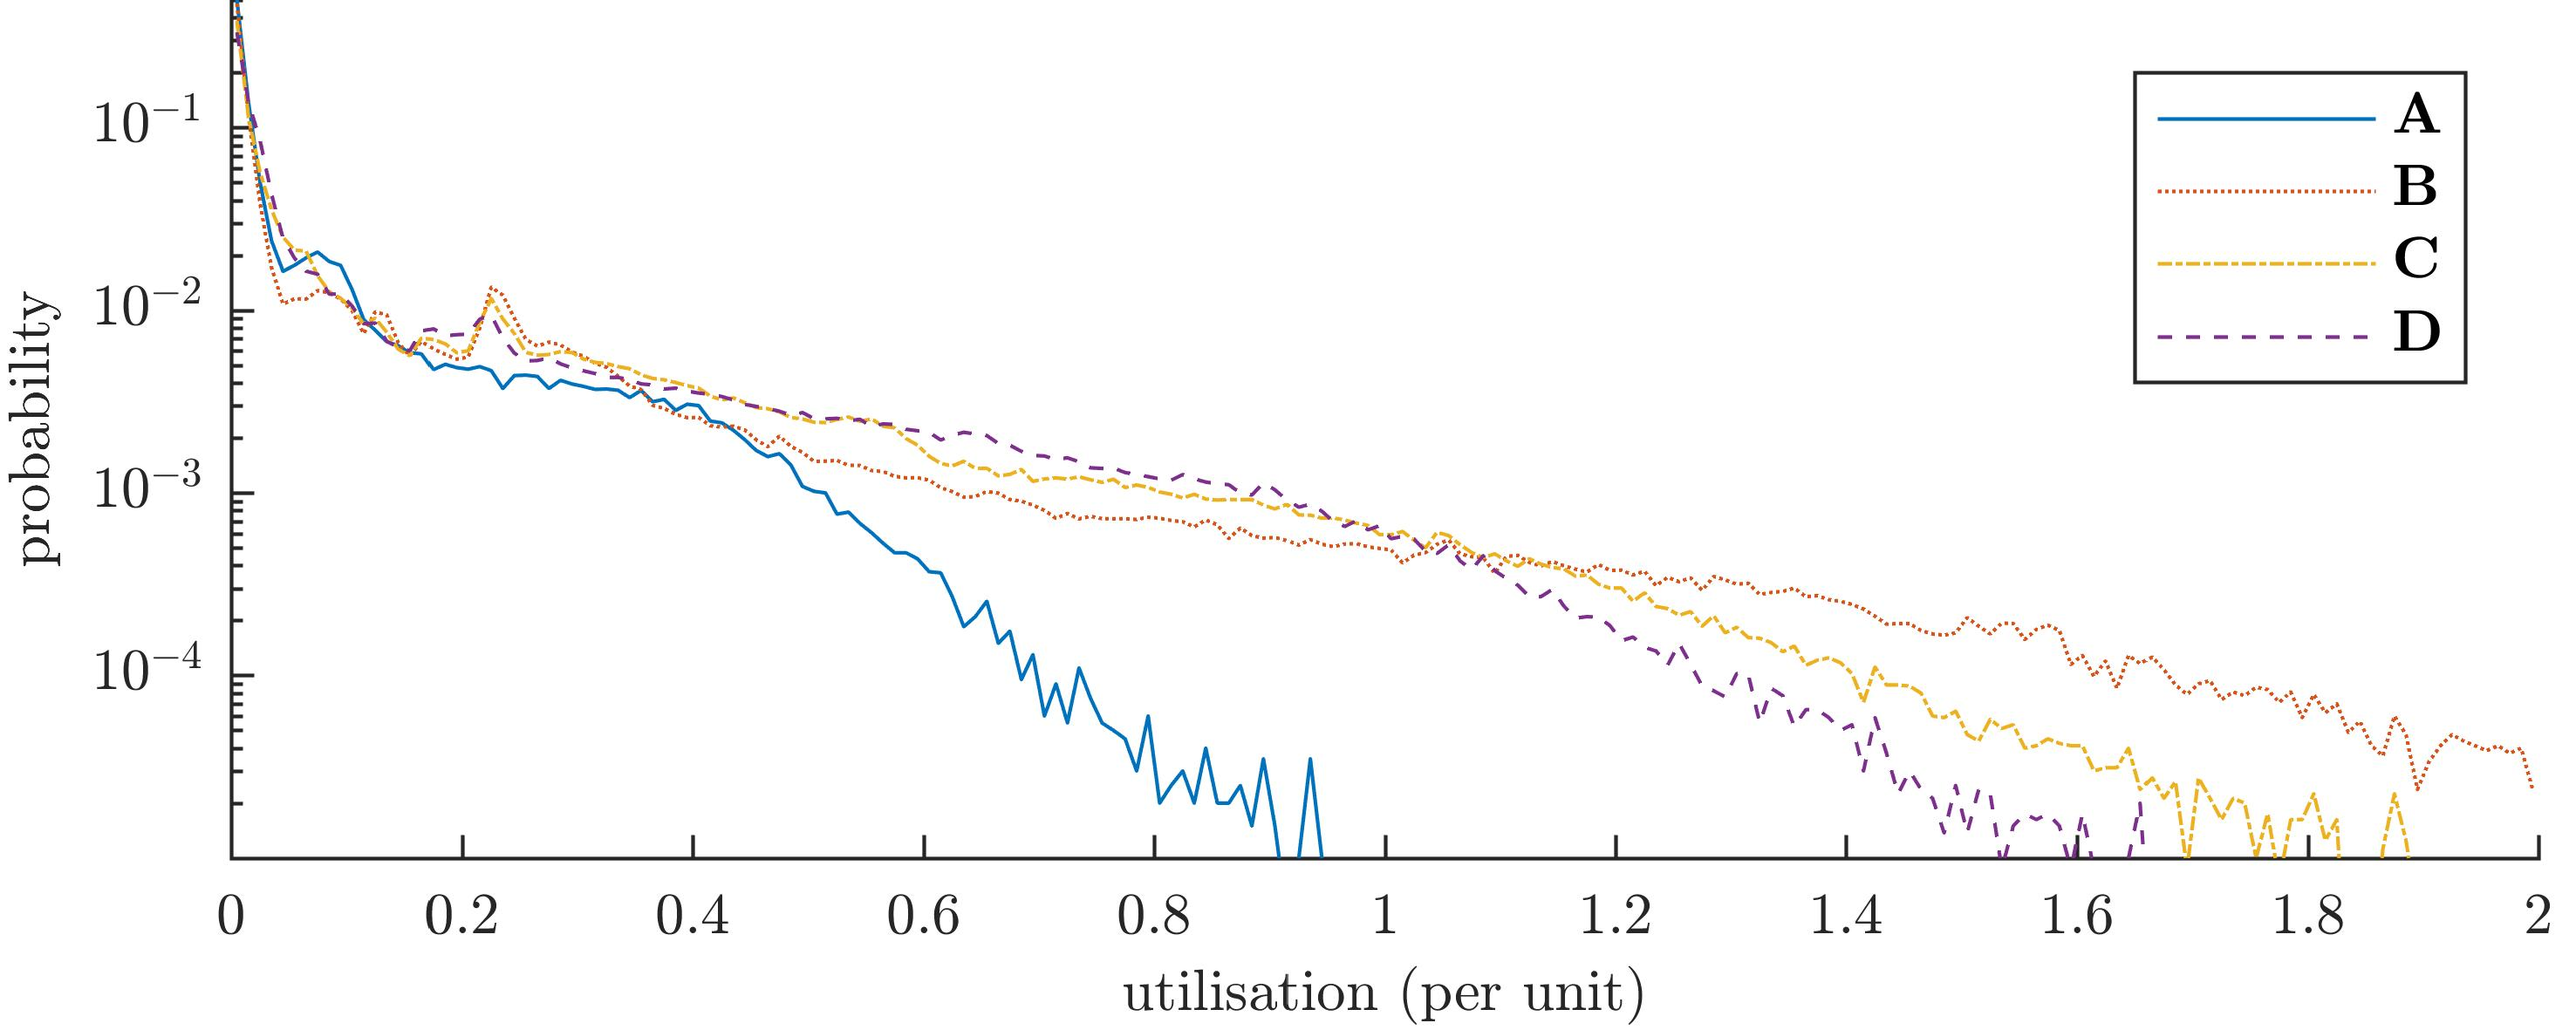
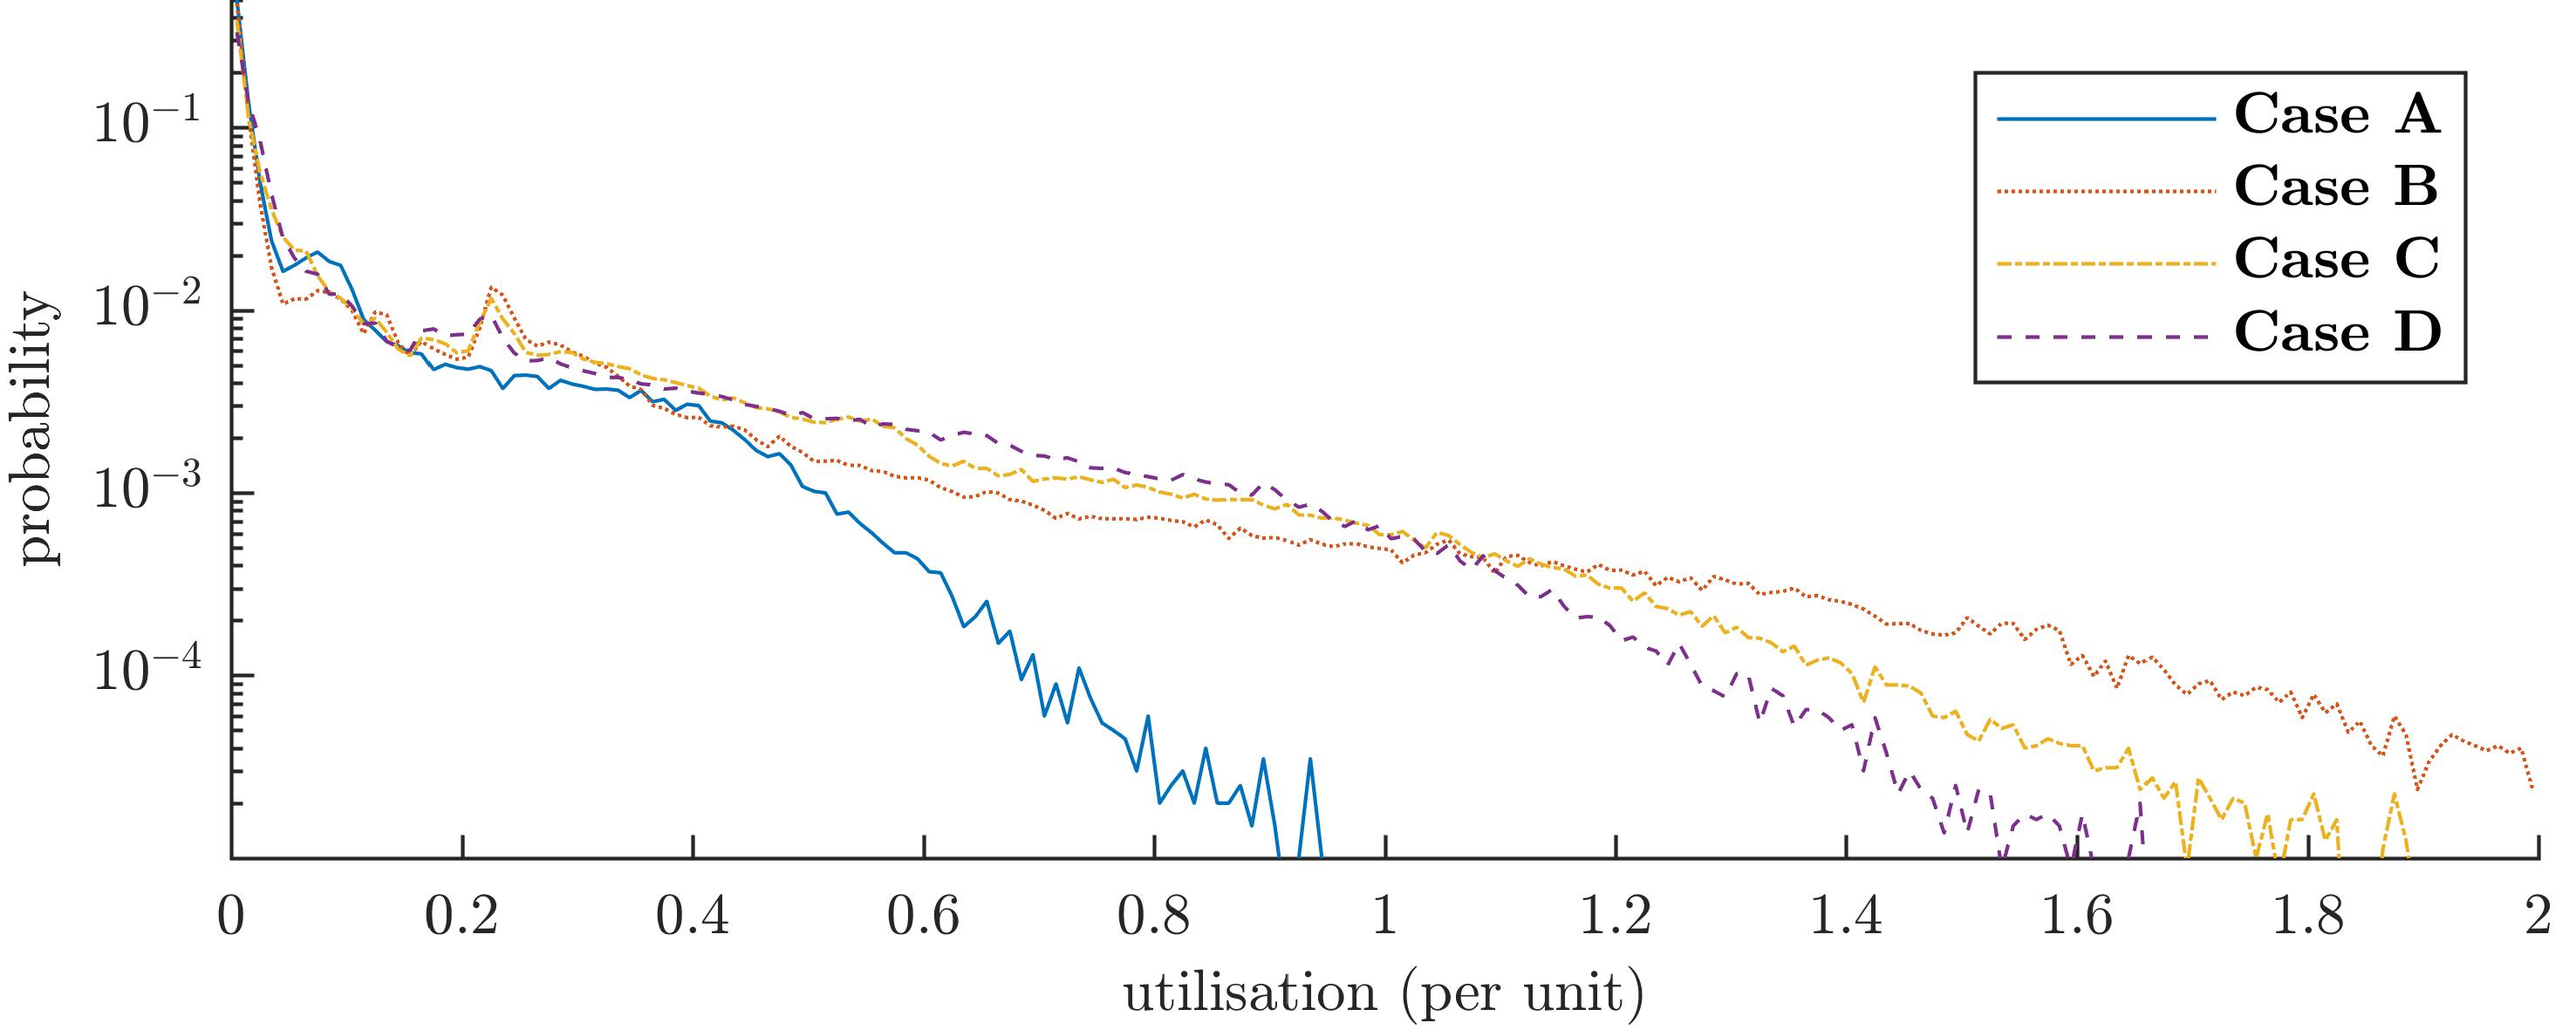
Finished results section

diff --git a/_chapter4/sec/results.tex b/_chapter4/sec/results.tex
@@ -59,7 +59,13 @@ As they are located closer to the substation, they do not measure a sufficient b
 This behaviour causes a number of line overloads at the very beginning of the simulated days.
 The AIMD+ algorithm on the other hand, with its adjusted thresholds, is more responsive to non-optimal network operation and, therefore, increases the charging rate gradually.
 
-This gradual adjustment is based on the fact that the bus voltages in the AIMD+ algorithm are closer to their nominal voltages (i.e., bus voltages found by simulating the feeder with its equally-distributed nominal load) than they are in the conventional AIMD case. A greater voltage disparity, which is the case in AIMD, causes a prolonged additive adjustment to the battery's power. This prolonged adjustment is particularly apparent for batteries situated at the bottom of the feeder, as their voltage measurements deviate the furthest from the substation voltage level. AIMD+ on the other hand prevents this behaviour by setting the voltage threshold based on the network's nominal voltage drop, which is dependent on the distance between the BESS and its feeding substation. As a result, the set-point voltage thresholds at the bottom of the feeder are lower than those closer to the substation. Hence, the additive power adjustment is equalised along the entire feeder. Therefore, by applying these individualised control thresholds, the sensitivity of the algorithm is corrected, whilst successfully mitigating the severity of line overloads.
+This gradual adjustment is based on the fact that the bus voltages in the AIMD+ algorithm are closer to their nominal voltages (i.e., bus voltages found by simulating the feeder with its equally-distributed nominal load) than they are in the conventional AIMD case.
+A greater voltage disparity, which is the case in AIMD, causes a prolonged additive adjustment to the battery's power.
+This prolonged adjustment is particularly apparent for batteries situated at the bottom of the feeder, as their voltage measurements deviate the furthest from the substation voltage level.
+AIMD+ on the other hand prevents this behaviour by setting the voltage threshold based on the network's nominal voltage drop, which is dependent on the distance between the BESS and its feeding substation.
+As a result, the set-point voltage thresholds at the bottom of the feeder are lower than those closer to the substation.
+Hence, the additive power adjustment is equalised along the entire feeder.
+Therefore, by applying these individualised control thresholds, the sensitivity of the algorithm is corrected, whilst successfully mitigating the severity of line overloads.
 
 \input{_chapter4/fig/utilisation-aimd-compare}
 
@@ -77,61 +83,31 @@ This immunity and well-controlled power flow caused little to no additional stra
 
 \subsection{Battery Utilisation Analysis}
 
-In this part of the analysis, the batteries' fairness of usage was evaluated. The battery power profiles were recorded; excerpts are plotted in Figure~\ref{fig-battery-utilisation-power} and are arranged by distance from the substation.
+\input{_chapter4/fig/storage-aimd}
 
+In this part of the analysis, the batteries' fairness of usage was evaluated. The battery power profiles were recorded; excerpts are plotted in Figure~\ref{ch4:fig:storage-aimd} and are arranged by distance from the substation.
+In this figure, it can be seen that only half of the deployed storage devices were active in \ref{ch4:case-c} (AIMD control), whereas all devices are utilised in \ref{ch4:case-d} (AIMD+ control).
+From the recorded battery SOC profiles, the net cycling of each battery was computed and divided by the duration of the simulation, giving an average daily cycling value.
+This value is plotted for each load in Figure~\ref{ch4:subfig:storage-aimd-cycling-compare}. The corresponding statistical analysis is presented in Figure~\ref{ch4:subfig:storage-aimd-cycling-stats}.
 
-\begin{figure}\centering
- \subfloat[]{%
- \includegraphics[width=0.5\textwidth]{foo}%
- \label{subfig-battery-utilisation-power-f}%
- }
- \subfloat[]{%
- \includegraphics[width=0.5\textwidth]{foo}%
- \label{subfig-battery-utilisation-power-r}%
- \caption{Battery power profiles of each load's battery storage device over four days for (a) \ref{ch4:case-c}, 60\% EV and 100\% AIMD (kW); (b) \ref{ch4:case-d}, 60\% EV and 100\% AIMD+ (kW).}
- \label{fig-battery-utilisation-power}
-\end{figure}
+\input{_chapter4/fig/storage-aimd-cycling}
 
-In this figure, it can be seen that only half of the deployed storage devices were active in \ref{ch4:case-c} (AIMD control), whereas all devices are utilised in \ref{ch4:case-d} (AIMD+ control). From the recorded battery SOC profiles, the net cycling of each battery was computed and divided by the duration of the simulation, giving an average daily cycling value. This value is plotted for each load in Figure~\ref{fig-battery-cycling}a. The corresponding statistical analysis is presented in Figure~\ref{fig-battery-cycling}b.
+These two plots show the under-usage of AIMD controlled batteries, as well as the variance in battery usage under AIMD and AIMD+ control.
+In fact, under AIMD control, 20 out of 55 batteries experienced a cycling of less than 10\% per day, whereas the remaining devices were utilised fully.
+This discrepancy causes the $\zeta_\textbf{C}^{***}$ value to be noticeably larger than $\zeta_\textbf{D}^{***}$.
+A more detailed comparison is given when plotting the Peak-to-Average Ratios (PAR) of the batteries' daily cycling over the full range of EV and storage uptake scenarios; these plots are shown in Figure~\ref{ch4:fig:storage-aimd-par}.
+Section~\ref{ch4:subsec:performance-metric-definition} gave the detail on all performance metrics, including $\zeta^{***}$, i.e. PAR, which is defined in Equation~\ref{ch4:equ:par-metric-c} and Equation~\ref{ch4:equ:par-metric-d}.
 
+\input{_chapter4/fig/storage-aimd-par}
 
-\begin{figure}[!h]\centering
- \subfloat[]{%
- \includegraphics[height=0.25\textwidth]{foo}%
- \label{subfig-battery-cycling-excerpt}%
- }
- \hspace{5mm}
- \subfloat[]{%
- \includegraphics[height=0.25\textwidth]{foo}%
- \label{subfig-battery-cycling-summary}%
- \caption{Each load's battery cycling compared for (\textbf{a}) 60\% EV and 100\% AIMD and AIMD+ uptake  and (\textbf{b}) in a statistical context. Here, $\zeta_\textbf{C}^{***}=3.89$ and $\zeta_\textbf{D}^{***}=2.54$. ({a}) Battery cycling for each load; ({b}) statistic. }
- \label{fig-battery-cycling}
-\end{figure}
+The figure shows that for any EV uptake scenario, AIMD-controlled energy storage units were cycled less equally than the AIMD+ controlled devices.
+Results also show that with a low EV uptake, both the AIMD and AIMD+ algorithm performed worse; yet improved as EV uptake increased.
+Averaging the PARs for all batteries' SOC profiles over all EV uptake percentages yields a clear performance difference between AIMD and AIMD+.
+These resulting PARs, i.e., the $\zeta_\textbf{C}^{***}$ and $\zeta_\textbf{D}^{***}$ values for their corresponding storage uptake percentages, are presented in Figure~\ref{ch4:fig:storage-aimd-compare-par}.
 
-These two plots show the under-usage of AIMD controlled batteries, as well as the variance in battery usage under AIMD and AIMD+ control. In fact, under AIMD control, 20 out of 55 batteries experienced a cycling of less than 10\% per day, whereas the remaining devices were utilised fully. This discrepancy causes the $\zeta_\textbf{C}^{***}$ value to be noticeably larger than $\zeta_\textbf{D}^{***}$. A more detailed comparison is given when plotting the Peak-to-Average Ratios (PAR) of the batteries' daily cycling over the full range of EV and storage uptake scenarios; these plots are shown in Figure~\ref{fig-storage-par-large}. Section~\ref{subsubsec-zeta-3} gives the detail on the PAR, $\zeta^{***}$.
+\input{_chapter4/fig/storage-aimd-compare-par}
 
-
-\begin{figure}\centering
- \subfloat[]{%
- \includegraphics[width=0.5\textwidth]{foo}%
- \label{subfig-sotrage-AIMD1-uptake-cycling-par}%
- }
- \subfloat[]{%
- \includegraphics[width=0.5\textwidth]{foo}%
- \label{subfig-sotrage-AIMD2-uptake-cycling-par}%
- }
- \caption{Peak-to-Average Ratios (PAR) of the battery cycling profiles of each load's battery storage device over four days for (\textbf{a}) AIMD  and (\textbf{b}) AIMD+. ({a}) Cycling PAR for AIMD; ({b}) cycling PAR for AIMD+.}
- \label{fig-storage-par-large}
-\end{figure}
-
-The figure shows that for any EV uptake scenario, AIMD-controlled energy storage units were cycled less equally than the AIMD+ controlled devices. Results also show that with a low EV uptake, both the AIMD and AIMD+ algorithm performed worse; yet improved as EV uptake increased.
-
-Averaging the PARs for all batteries' SOC profiles over all EV uptake percentages yields a clear performance difference between AIMD and AIMD+. These resulting PARs, i.e., the $\zeta_\textbf{C}^{***}$ and $\zeta_\textbf{D}^{***}$ values for their corresponding storage uptake percentages, are presented in Figure~\ref{fig-storage-par}.
-
-\begin{figure}\centering
- \includegraphics{foo}
- \caption{The performance index $\zeta_\textbf{C}^{***}$ for AIMD storage and $\zeta_\textbf{D}^{***}$ for AIMD+ storage control against storage uptake.}
- \label{fig-storage-par}
-\end{figure}
-
-Although the AIMD controlled batteries were, on average, cycled less than the batteries controlled by the proposed AIMD+ algorithm, looking at the average produces a distorted understanding of the performance. In fact, as more than half of the assigned AIMD BESS devices never partook in the network control, a lower average cycling was expected to begin with. The variation in cycling across all batteries, or the cycling PAR, reveals the difference between usage and effective usage. A lower ratio indicates a better usage of the deployed batteries.
+Although the AIMD controlled batteries were, on average, cycled less than the batteries controlled by the proposed AIMD+ algorithm, looking at the average produces a distorted understanding of the performance.
+In fact, as more than half of the assigned AIMD BESS devices never partook in the network control, a lower average cycling was expected to begin with.
+The variation in cycling across all batteries, or the cycling PAR, reveals the difference between usage and effective usage.
+A lower ratio indicates a better usage of the deployed batteries.

diff --git a/_chapter4/fig/storage-aimd-cycling.tex b/_chapter4/fig/storage-aimd-cycling.tex
@@ -1,0 +1,12 @@
+\begin{figure}\centering
+	\subfloat[]{
+		\includegraphics[height=0.3\textwidth]{_chapter4/fig/storage-aimd-compare}
+		\label{ch4:subfig:storage-aimd-cycling-compare}
+	}
+	\subfloat[]{
+		\includegraphics[height=0.3\textwidth]{_chapter4/fig/storage-aimd-compare-stats}
+		\label{ch4:subfig:storage-aimd-cycling-stats}
+	}
+	\caption{Each load's battery cycling compared for (a) each BESS and (b) the two cases, where $\zeta_\textbf{C}^{***}=3.89$ and $\zeta_\textbf{D}^{***}=2.54$.}
+	\label{ch4:fig:storage-aimd-cycling}
+\end{figure}

diff --git a/_chapter4/fig/storage-aimd-par.tex b/_chapter4/fig/storage-aimd-par.tex
@@ -1,0 +1,12 @@
+\begin{figure}\centering
+	\subfloat[]{
+		\includegraphics[width=0.5\textwidth]{_chapter4/fig/storage-aimd-par}
+		\label{ch4:subfig:storage-aimd-par}
+	}
+	\subfloat[]{
+		\includegraphics[width=0.5\textwidth]{_chapter4/fig/storage-aimd-plus-par}
+		\label{ch4:subfig:storage-aimd-plus-par}
+	}
+	\caption{Peak-to-Average Ratios (PAR) of the battery cycling profiles of each load's battery storage device over four days for (a) \ref{ch4:case-c}  and  (a) \ref{ch4:case-d}.}
+	\label{ch4:fig:storage-aimd-par}
+\end{figure}

diff --git a/_chapter4/fig/storage-aimd.tex b/_chapter4/fig/storage-aimd.tex
@@ -1,0 +1,12 @@
+\begin{figure}\centering
+	\subfloat[]{
+		\includegraphics[width=0.5\textwidth]{_chapter4/fig/storage-aimd}
+		\label{ch4:subfig:storage-aimd}
+	}
+	\subfloat[]{
+		\includegraphics[width=0.5\textwidth]{_chapter4/fig/storage-aimd-plus}
+		\label{ch4:subfig:storage-aimd-plus}
+	}
+	\caption{Battery power profiles of each load's battery storage device over four days for (a) \ref{ch4:case-c} and (b) \ref{ch4:case-d}.}
+	\label{ch4:fig:storage-aimd}
+\end{figure}

diff --git a/_chapter4/fig/storage-aimd-compare-par.tex b/_chapter4/fig/storage-aimd-compare-par.tex
@@ -1,0 +1,5 @@
+\begin{figure}\centering
+	\includegraphics{_chapter4/fig/storage-aimd-compare-par}
+	\caption{The performance index $\zeta_\textbf{C}^{***}$ for AIMD storage and $\zeta_\textbf{D}^{***}$ for AIMD+ storage control against storage uptake.}
+	\label{ch4:fig:storage-aimd-compare-par}
+\end{figure}
